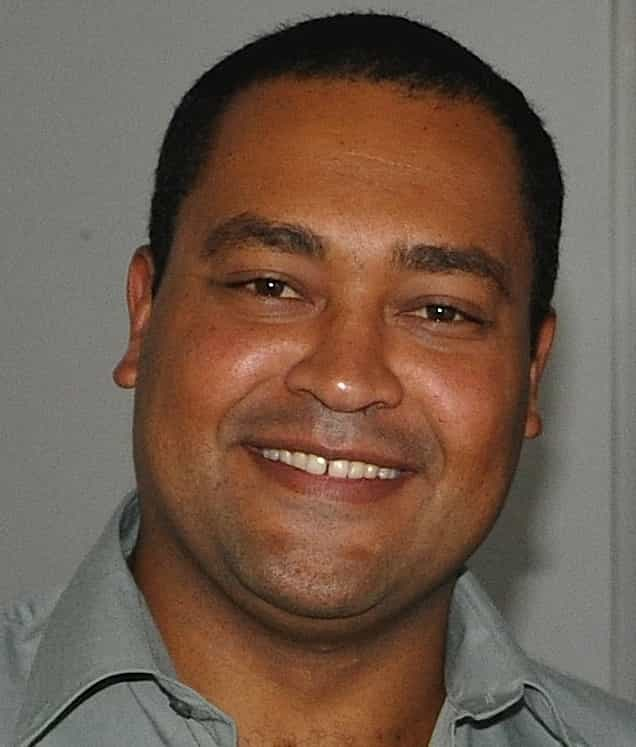
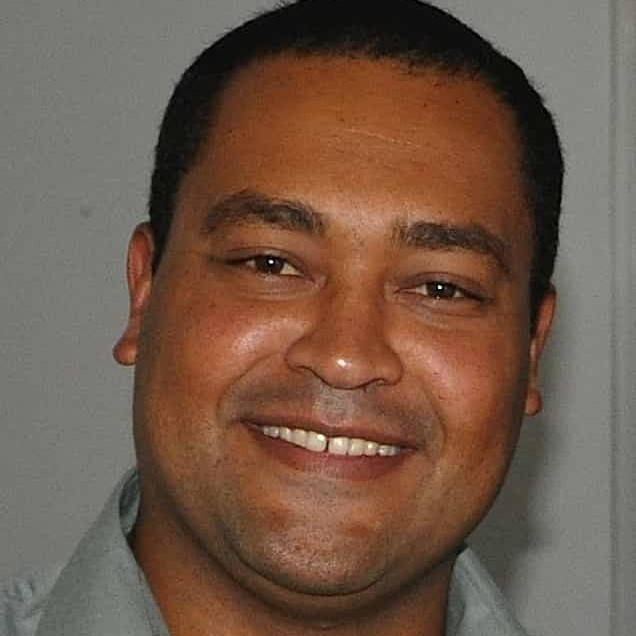
add convidados

diff --git a/index.html b/index.html
@@ -146,6 +146,20 @@
                 </div>
                 <div class="col-lg-4 col-md-6">
                     <div class="speaker">
+                        <img src="img/speakers/30-bernard-eigler.jpg" alt="Bernard P. Zeigler" class="img-fluid">
+                        <div class="details">
+                            <h3><a href="speaker-details.html">Bernard P. Zeigler</a></h3>
+                            <p>Professor Emeritus of Electrical and Computer Engineering at the University of Arizona</p>
+                            <div class="social">
+                                <!-- <a target="_blank" href="https://aka.ms/malvar"><i class="fa fa-external-link"></i></a>
+                                <a target="_blank" href="https://www.linkedin.com/in/ricomalvar/"><i
+                                        class="fa fa-linkedin"></i></a> -->
+                            </div>
+                        </div>
+                    </div>
+                </div>
+                <div class="col-lg-4 col-md-6">
+                    <div class="speaker">
                         <img src="img/speakers/26-ronan-damasco.jpg" alt="Ronan Damasco" class="img-fluid">
                         <div class="details">
                             <h3><a href="speaker-details.html">Ronan Damasco</a></h3>
@@ -177,20 +191,6 @@
                             <h3><a href="speaker-details.html">Alcides Leandro da Silva</a></h3>
                             <p>Professor ENE/UnB</p>
                             <div class="social">
-                            </div>
-                        </div>
-                    </div>
-                </div>
-                <div class="col-lg-4 col-md-6">
-                    <div class="speaker">
-                        <img src="img/speakers/19-yan-trindade.jpg" alt="Yan Trindade" class="img-fluid">
-                        <div class="details">
-                            <h3><a>Yan Trindade</a></h3>
-                            <p>Programador e CEO Orbit Labs</p>
-                            <div class="social">
-                                <a target="_blank" href="https://twitter.com/yanctrindade"><i class="fa fa-twitter"></i></a>
-                                <a target="_blank" href="https://www.instagram.com/yanctrindade/"><i
-                                        class="fa fa-instagram"></i></a>
                             </div>
                         </div>
                     </div>
@@ -344,7 +344,22 @@
 
                 <div class="col-lg-4 col-md-6">
                     <div class="speaker">
-                        <img src="img/speakers/20-felipe-tomaz.png" alt="Felipe Tomaz" class="img-fluid">
+                        <img src="img/speakers/19-yan-trindade.jpg" alt="Yan Trindade" class="img-fluid">
+                        <div class="details">
+                            <h3><a>Yan Trindade</a></h3>
+                            <p>Programador e CEO Orbit Labs</p>
+                            <div class="social">
+                                <a target="_blank" href="https://twitter.com/yanctrindade"><i class="fa fa-twitter"></i></a>
+                                <a target="_blank" href="https://www.instagram.com/yanctrindade/"><i
+                                        class="fa fa-instagram"></i></a>
+                            </div>
+                        </div>
+                    </div>
+                </div>
+
+                <div class="col-lg-4 col-md-6">
+                    <div class="speaker">
+                        <img src="img/speakers/20-felipe-tomaz.jpg" alt="Felipe Tomaz" class="img-fluid">
                         <div class="details">
                             <h3><a>Felipe Tomaz</a></h3>
                             <p>COO & Co-founder da Configr</p>
@@ -369,6 +384,38 @@
                                 <a target="_blank" href="https://twitter.com/diegodorgam"><i class="fa fa-twitter"></i></a>
                                 <a target="_blank" href="https://github.com/diegodorgam"><i
                                         class="fa fa-github"></i></a>
+                                <!-- <a target="_blank" href="https://www.instagram.com/felipeatomaz/"><i class="fa fa-instagram"></i></a> -->
+                                <!-- <a target="_blank" href="fb.me/felipe.tomaz.90"><i class="fa fa-facebook"></i></a> -->
+                                <!-- <a target="_blank" href="https://linkedin.com/in/felipetomaz"><i class="fa fa-linkedin"></i></a>  -->
+                            </div>
+                        </div>
+                    </div>
+                </div>
+
+                <div class="col-lg-4 col-md-6">
+                    <div class="speaker">
+                        <img src="img/speakers/27-yara-barcellos.jpg" alt="Yara Barcellos" class="img-fluid">
+                        <div class="details">
+                            <h3><a>Yara Barcellos</a></h3>
+                            <p>Diretora de intercâmbios profissionais da AIESEC Brasília</p>
+                            <div class="social">
+                                <a target="_blank" href="https://www.instagram.com/yarabarceellos/"><i class="fa fa-instagram"></i></a>
+                                <!-- <a target="_blank" href="https://www.instagram.com/felipeatomaz/"><i class="fa fa-instagram"></i></a> -->
+                                <!-- <a target="_blank" href="fb.me/felipe.tomaz.90"><i class="fa fa-facebook"></i></a> -->
+                                <!-- <a target="_blank" href="https://linkedin.com/in/felipetomaz"><i class="fa fa-linkedin"></i></a>  -->
+                            </div>
+                        </div>
+                    </div>
+                </div>
+
+                <div class="col-lg-4 col-md-6">
+                    <div class="speaker">
+                        <img src="img/speakers/32-gabriel-sartori.jpg" alt="Gabriel Sartori" class="img-fluid">
+                        <div class="details">
+                            <h3><a>Gabriel Sartori</a></h3>
+                            <p>Sócio Fundador e desenvolvedor da empresa Embedded Architects Tecnologia</p>
+                            <div class="social">
+                                <a target="_blank" href="https://www.instagram.com/yarabarceellos/"><i class="fa fa-instagram"></i></a>
                                 <!-- <a target="_blank" href="https://www.instagram.com/felipeatomaz/"><i class="fa fa-instagram"></i></a> -->
                                 <!-- <a target="_blank" href="fb.me/felipe.tomaz.90"><i class="fa fa-facebook"></i></a> -->
                                 <!-- <a target="_blank" href="https://linkedin.com/in/felipetomaz"><i class="fa fa-linkedin"></i></a>  -->
@@ -409,7 +456,7 @@
                             <img src="img/courses/ruby.png" alt="course 2" class="img-fluid">
                         </div>
                         <h3><a href="courses-details.html">Curso de Ruby</a></h3>
-                        <h4>Pedro Henrique</h4>
+                        <h4>Pedro Henrique Cruz</h4>
                         <p>Carga Horária: 4h</p>
                     </div>
                 </div>
@@ -452,10 +499,10 @@
                 <div class="col-lg-4 col-md-6">
                     <div class="course">
                         <div class="course-img">
-                            <img src="img/courses/android.jpg" alt="course 3" class="img-fluid">
+                            <img src="img/courses/android.jpg" alt="Android" class="img-fluid">
                         </div>
                         <h3><a href="courses-details.html">Android</a></h3>
-                        <h4>Responsável</h4>
+                        <h4>Yan Trindade</h4>
                         <p>Carga Horária: 4h</p>
                     </div>
                 </div>
@@ -753,7 +800,7 @@
                         </div>
                         <div class="col-md-2"></div>
                         <div class="col-md-10">
-                            <h4>Curso: Inteligência Artificial. <span>AlexandreRomariz</span></h4>
+                            <h4>Curso: Inteligência Artificial. <span>Alexandre Romariz</span></h4>
                             <p>Local: ULEG - LCCC</p>
                         </div>
                         <div class="col-md-2"></div>
@@ -881,7 +928,7 @@
                         </div>
                         <div class="col-md-2"></div>
                         <div class="col-md-10">
-                            <h4>Continuação do Curso: Inteligência Artificial. <span>AlexandreRomariz</span></h4>
+                            <h4>Continuação do Curso: Inteligência Artificial. <span>Alexandre Romariz</span></h4>
                             <p>Local: ULEG - LCCC</p>
                         </div>
                         <div class="col-md-2"></div>

diff --git a/speaker-details.html b/speaker-details.html
@@ -100,6 +100,25 @@
         <HR>
         <div class="row">
           <div class="col-md-5">
+            <img style="max-width: 360px;" src="img/speakers/30-bernard-eigler.jpg" alt="Bernard P. Zeigler" class="img-fluid">
+          </div>
+
+          <div class="col-md-6">
+            <div class="details">
+              <h2>Bernard P. Zeigler</h2>
+              <div class="social">
+                <!-- <a target="_blank" href="https://br.linkedin.com/in/ronan-damasco"><i class="fa fa-linkedin"></i></a> -->
+              </div>
+              <p>Bernard P. Zeigler is Professor Emeritus of Electrical and Computer Engineering at the University of Arizona. He received a Ph.D. in Computer/Communication Sciences from the University of Michigan (1968), an M.S. in Electrical Engineering from the Massachusetts Institute of Technology (1964), and a B.S. in Engineering Physics from McGill University in Montreal, Canada (1962). Zeigler has held faculty appointments at the University of Michigan (1969–1975, 1980–1981), the Weizmann Institute in Israel (1975–1980), Wayne State University (1981–1984), The University of Arizona (1985–2010), and Arizona State University (2005–2008). While in Arizona, Dr. Zeigler served as the Co-Director of the Arizona Center for Integrative Modeling and Simulation (ACIMS). He is currently affiliated with the Center of Excellence in Command, Control, Communications, Computing and Intelligence (C4I Center) at George Mason University and is also the Chief Scientist at RTSync Corp.</p>
+              <p>Zeigler is a Fellow of the Institute of Electrical and Electronics Engineers (IEEE) and The Society for Modeling and Simulation International (SCS) for which he served as President (2002–2004). He is a member of the SCS Hall of Fame. In 2013 he received the Institute for Operations Research and Management Sciences (INFORMS) Simulation Society Distinguished Service Award. In 2015 he received the INFORMS Lifetime Professional Achievement Award, which is the highest honor given by the Institute for Operations Research and the Management Sciences’ Simulation Society.</p>
+              <!-- <p>Zeigler, has published several books on modeling and simulation and is best known for his theoretical work concerning modeling and simulation based on systems theory and the Discrete Event Systems Specification formalism which he invented in 1976. Recently, he published with two young researchers the third edition of his classic Theory of Modeling and Simulation which has become a classic in the field. Zeigler has played a critical role within the modeling and simulation field through his editorial responsibilities and professional activities that focus on the importance of modeling and simulation in its interaction with other disciplines (e.g., artificial intelligence, biological systems, and defense systems architecture). Zeigler has received much recognition for his various scholarly publications, achievements, and professional service. His 1984 book, Multifaceted Modelling and Discrete Event Simulation, was published by Academic Press and received the outstanding Publication Award in 1988 from The Institute of Management Sciences (TIMS) College on Simulation.</p> -->
+            </div>
+          </div>
+        </div>
+
+        <HR>
+        <div class="row">
+          <div class="col-md-5">
             <img style="max-width: 360px;" src="img/speakers/26-ronan-damasco.jpg" alt="Ronan Damasco" class="img-fluid">
           </div>
 
@@ -137,7 +156,7 @@
         <HR>
         <div class="row">
           <div class="col-md-5">
-            <img style="max-width: 360px;" src="img/speakers/24-fernado-galdino.png" alt="Talitha Pumar" class="img-fluid">
+            <img style="max-width: 360px;" src="img/speakers/24-fernado-galdino.jpg" alt="Fernando Galdino" class="img-fluid">
           </div>
 
           <div class="col-md-6">
@@ -206,7 +225,7 @@
         <HR>
         <div class="row">
           <div class="col-md-5">
-            <img style="max-width: 360px;" src="img/speakers/6-alexandre-nery.png" alt="Alexandre Solon Nery" class="img-fluid">
+            <img style="max-width: 360px;" src="img/speakers/6-alexandre-nery.jpg" alt="Alexandre Solon Nery" class="img-fluid">
           </div>
 
           <div class="col-md-6">
@@ -224,7 +243,7 @@
         <HR>
         <div class="row">
           <div class="col-md-5">
-            <img style="max-width: 360px;" src="img/speakers/7-adolfo-bauchspiess.png" alt="Adolfo Bauchspiess" class="img-fluid">
+            <img style="max-width: 360px;" src="img/speakers/7-adolfo-bauchspiess.jpg" alt="Adolfo Bauchspiess" class="img-fluid">
           </div>
 
           <div class="col-md-6">
@@ -243,7 +262,7 @@
         <HR>
         <div class="row">
           <div class="col-md-5">
-            <img style="max-width: 360px;" src="img/speakers/5-felipe-vigolvino.png" alt="Felipe Vigolvino Lopes" class="img-fluid">
+            <img style="max-width: 360px;" src="img/speakers/5-felipe-vigolvino.jpg" alt="Felipe Vigolvino Lopes" class="img-fluid">
           </div>
 
           <div class="col-md-6">
@@ -283,7 +302,7 @@
         <HR>
         <div class="row">
           <div class="col-md-5">
-            <img style="max-width: 360px;" src="img/speakers/8-robson-albuquerque.png" alt="Robson Albuquerque" class="img-fluid">
+            <img style="max-width: 360px;" src="img/speakers/8-robson-albuquerque.jpg" alt="Robson Albuquerque" class="img-fluid">
           </div>
 
           <div class="col-md-6">

diff --git a/courses-details.html b/courses-details.html
@@ -153,6 +153,46 @@
             </div>
           </div>
         </div>
+
+        <HR>
+        <div class="row">
+          <div class="col-md-4">
+            <img style="max-width: 250px;" src="img/courses/live-coding.jpg" alt="Live-Coding: Música e Arte Gerada por Código" class="img-fluid">
+          </div>
+
+          <div class="col-md-6">
+            <div class="details">
+              <h2>Live-Coding: Música e Arte Gerada por Código</h2>
+              <h4><a href="speaker-details.html">Thales Grilo, Joênio Marques e Arthur Cabral</a></h4>
+              <p>Live-coding é a prática de construir arte ao vivo para uma plateia através de código. Hoje, toda uma cultura se desenvolveu em torno deste conceito.
+                Nessa oficina, apresentaremos algumas ferramentas que vêm sido utilizadas dentro deste meio, através de uma prática interativa.
+                Seja você um artista que tem interesse em código, ou um programador com interesse em arte computacional, o espaço está aberto!</p>
+              <p> <span>Requisitos de Software:</span><br>
+                - TidalCycles: guia de instalação <a target="_blank" href="https://tidalcycles.org/index.php/Linux_installation">aqui</a><br>
+                - dependências exigidas (também descritas no guia): GHC, SuperCollider, SuperDirt e Atom (ou Visual Studio Code)
+              </p>
+              <p><span>Requisitos de Conhecimento:</span><br>
+                - Importante: Conceitos básicos de programação (variáveis, funções, arrays); Noções de programação orientada a objetos/funcional e Noções básicas de música<br>
+                - Recomendado: Familiaridade com Javascript e Familiaridade com Haskell e padrões funcionais (composição, aplicação parcial, bind)</p>
+            </div>
+          </div>
+        </div>
+
+        <HR>
+        <div class="row">
+          <div class="col-md-4">
+            <img style="max-width: 250px;" src="img/courses/react.png" alt="Seus primeiros passos com React" class="img-fluid">
+          </div>
+
+          <div class="col-md-6">
+            <div class="details">
+              <h2>Seus primeiros passos com React</h2>
+              <h4><a href="speaker-details.html">Victor Landim</a></h4>
+              <p>Workshop de React para a web. Entenderemos conceitos fundamentais como componentização, JSX, métodos de ciclo de vida, estilização e o porquê dessa biblioteca ter feito tanto barulho. Por fim, utilizaremos o poder do React para construir uma Single Page Application dinâmica que irá consumir uma API pública. :)</p>
+              <p>Requisitos: Não precisa de requisitos de sistema, ja que a gente vai usar um browser</p>
+            </div>
+          </div>
+        </div>
         
 
       </div>
